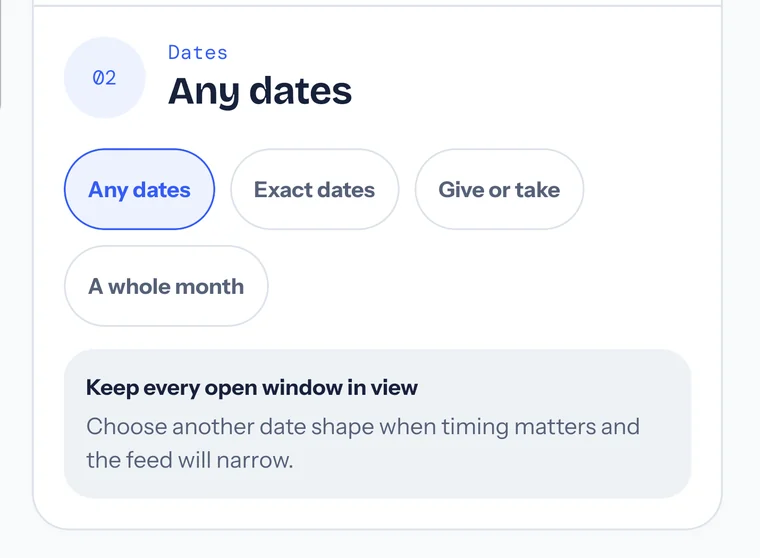
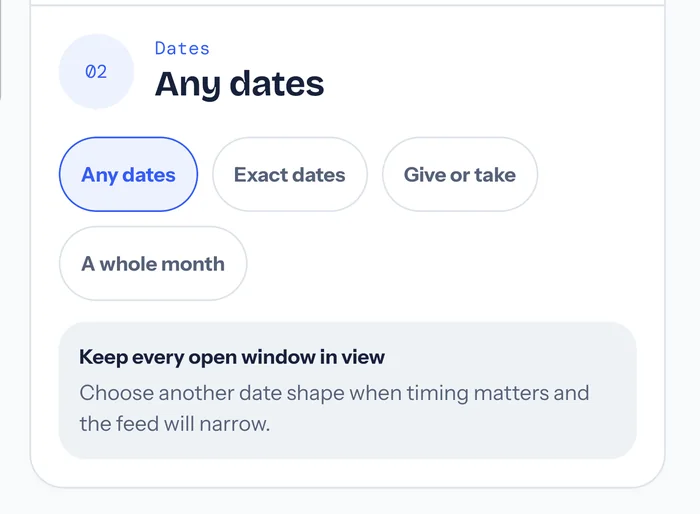
Rebuild the landing page: a real one, with the fonts actually served

diff --git a/index.html b/index.html
@@ -105,12 +105,13 @@
           <div class="hero-stage">
             <img class="stage-mark" src="stead-mark.svg" alt="" width="220" height="220" />
             <figure class="shot">
-              <div class="screen">
+              <div class="phone">
+                
                 <img
-                  src="shots/search.webp"
-                  width="760"
-                  height="738"
-                  alt="The search screen in the Stead app, headed Where could you go?, with a first step labelled Place reading Anywhere members have opened a home, a city search field, and a selected row reading Anywhere, every member home."
+                  src="shots/arrival.webp"
+                  width="640"
+                  height="1239"
+                  alt="The Stead app's first screen: a photograph of two travellers wheeling suitcases to a front door while a golden retriever sits on the step, under the words Your pets stay home. You travel."
                 />
               </div>
             </figure>
@@ -308,21 +309,35 @@
             </li>
           </ol>
 
-          <figure class="shot shot--wide">
-            <div class="screen">
-              <img
-                src="shots/dates.webp"
-                width="760"
-                height="558"
-                alt="The dates step in the Stead app, offering four date shapes — any dates, exact dates, give or take, and a whole month — above a note reading Keep every open window in view."
-              />
-            </div>
-            <figcaption data-i18n="steps.shot.caption">
-              Step two, in the app. How firmly your dates are set is a choice,
-              because the whole thing turns on two households being free at
-              once.
-            </figcaption>
-          </figure>
+          <div class="screens">
+            <figure class="shot">
+              <div class="screen">
+                <img
+                  src="shots/search.webp"
+                  width="700"
+                  height="679"
+                  alt="The search screen in the Stead app, headed Where could you go?, with a first step labelled Place reading Anywhere members have opened a home, above a city search field."
+                />
+              </div>
+              <figcaption data-i18n="steps.shot.where">
+                Step one. Somewhere you want to go.
+              </figcaption>
+            </figure>
+            <figure class="shot">
+              <div class="screen">
+                <img
+                  src="shots/dates.webp"
+                  width="700"
+                  height="514"
+                  alt="The dates step in the Stead app, offering four date shapes — any dates, exact dates, give or take, and a whole month — above a note reading Keep every open window in view."
+                />
+              </div>
+              <figcaption data-i18n="steps.shot.when">
+                Step two. How firmly your dates are set is a choice, because the
+                whole thing turns on two households being free at once.
+              </figcaption>
+            </figure>
+          </div>
         </div>
       </section>
 
@@ -421,15 +436,15 @@
             <div class="phone phone--sm">
               
               <img
-                src="shots/signin.webp"
-                width="620"
-                height="1200"
-                alt="The sign-in screen in the Stead app, offering a password, a emailed code and Google as three ways into the same account, above a line reading: your data runs swaps, it is never sold and never used for advertising."
+                src="shots/verified.webp"
+                width="560"
+                height="1084"
+                alt="A screen from the Stead app showing a traveller shaking hands with a couple at their front door while a border collie watches, under the words Every swap is between fully verified members."
               />
             </div>
             <figcaption data-i18n="trust.shot.caption">
-              Three ways in, one account — and the line underneath them, which
-              is the whole data position in a sentence.
+              The promise in its exact form. Not "every member is verified" —
+              the checks are required of both sides of a swap.
             </figcaption>
           </figure>
         </div>
@@ -437,8 +452,8 @@
 
       
       <section class="band band--paper">
-        <div class="wrap">
-          <div class="measure-wide">
+        <div class="wrap split split--flip">
+          <div>
             <p class="eyebrow" data-i18n="care.eyebrow">While you're away</p>
             <h2 data-i18n="care.heading">They'll know the routine</h2>
             <p class="lede" data-i18n="care.lede">
@@ -453,9 +468,21 @@
               every draft is one a person approves, edits or throws away.
               Nothing sends itself, no decision about your account is made by a
               machine alone, and emergency contacts are never AI-written — the
-              handbook the model fills in has no field for them.
-            </p>
-          </div>
+\1
+          <figure class="shot">
+            <div class="phone phone--sm">
+              
+              <img
+                src="shots/handbook.webp"
+                width="560"
+                height="820"
+                alt="A screen from the Stead app showing someone photographing a golden retriever lying on a rug in a sunlit living room, under the words Their routine, written down."
+              />
+            </div>
+            <figcaption data-i18n="care.shot.caption">
+              A daily update being taken, in the app.
+            </figcaption>
+          </figure>
 
         </div>
       </section>

diff --git a/styles.css b/styles.css
@@ -508,10 +508,29 @@ h2 + .lede {
 }
 
 
-.shot--wide {
-  margin-top: clamp(2rem, 4vw, 3rem);
-  max-width: 34rem;
-  margin-inline: auto;
+.screens {
+  margin-top: clamp(2.25rem, 5vw, 3.25rem);
+  display: grid;
+  gap: clamp(2rem, 4vw, 3rem);
+  align-items: start;
+}
+
+@media (min-width: 52rem) {
+  .screens {
+    grid-template-columns: repeat(2, 1fr);
+    align-items: stretch;
+  }
+}
+
+
+.screens .shot {
+  height: 100%;
+  align-content: start;
+}
+
+.screens figcaption {
+  margin-top: auto;
+  padding-top: var(--s-md);
 }
 
 .shot figcaption {
